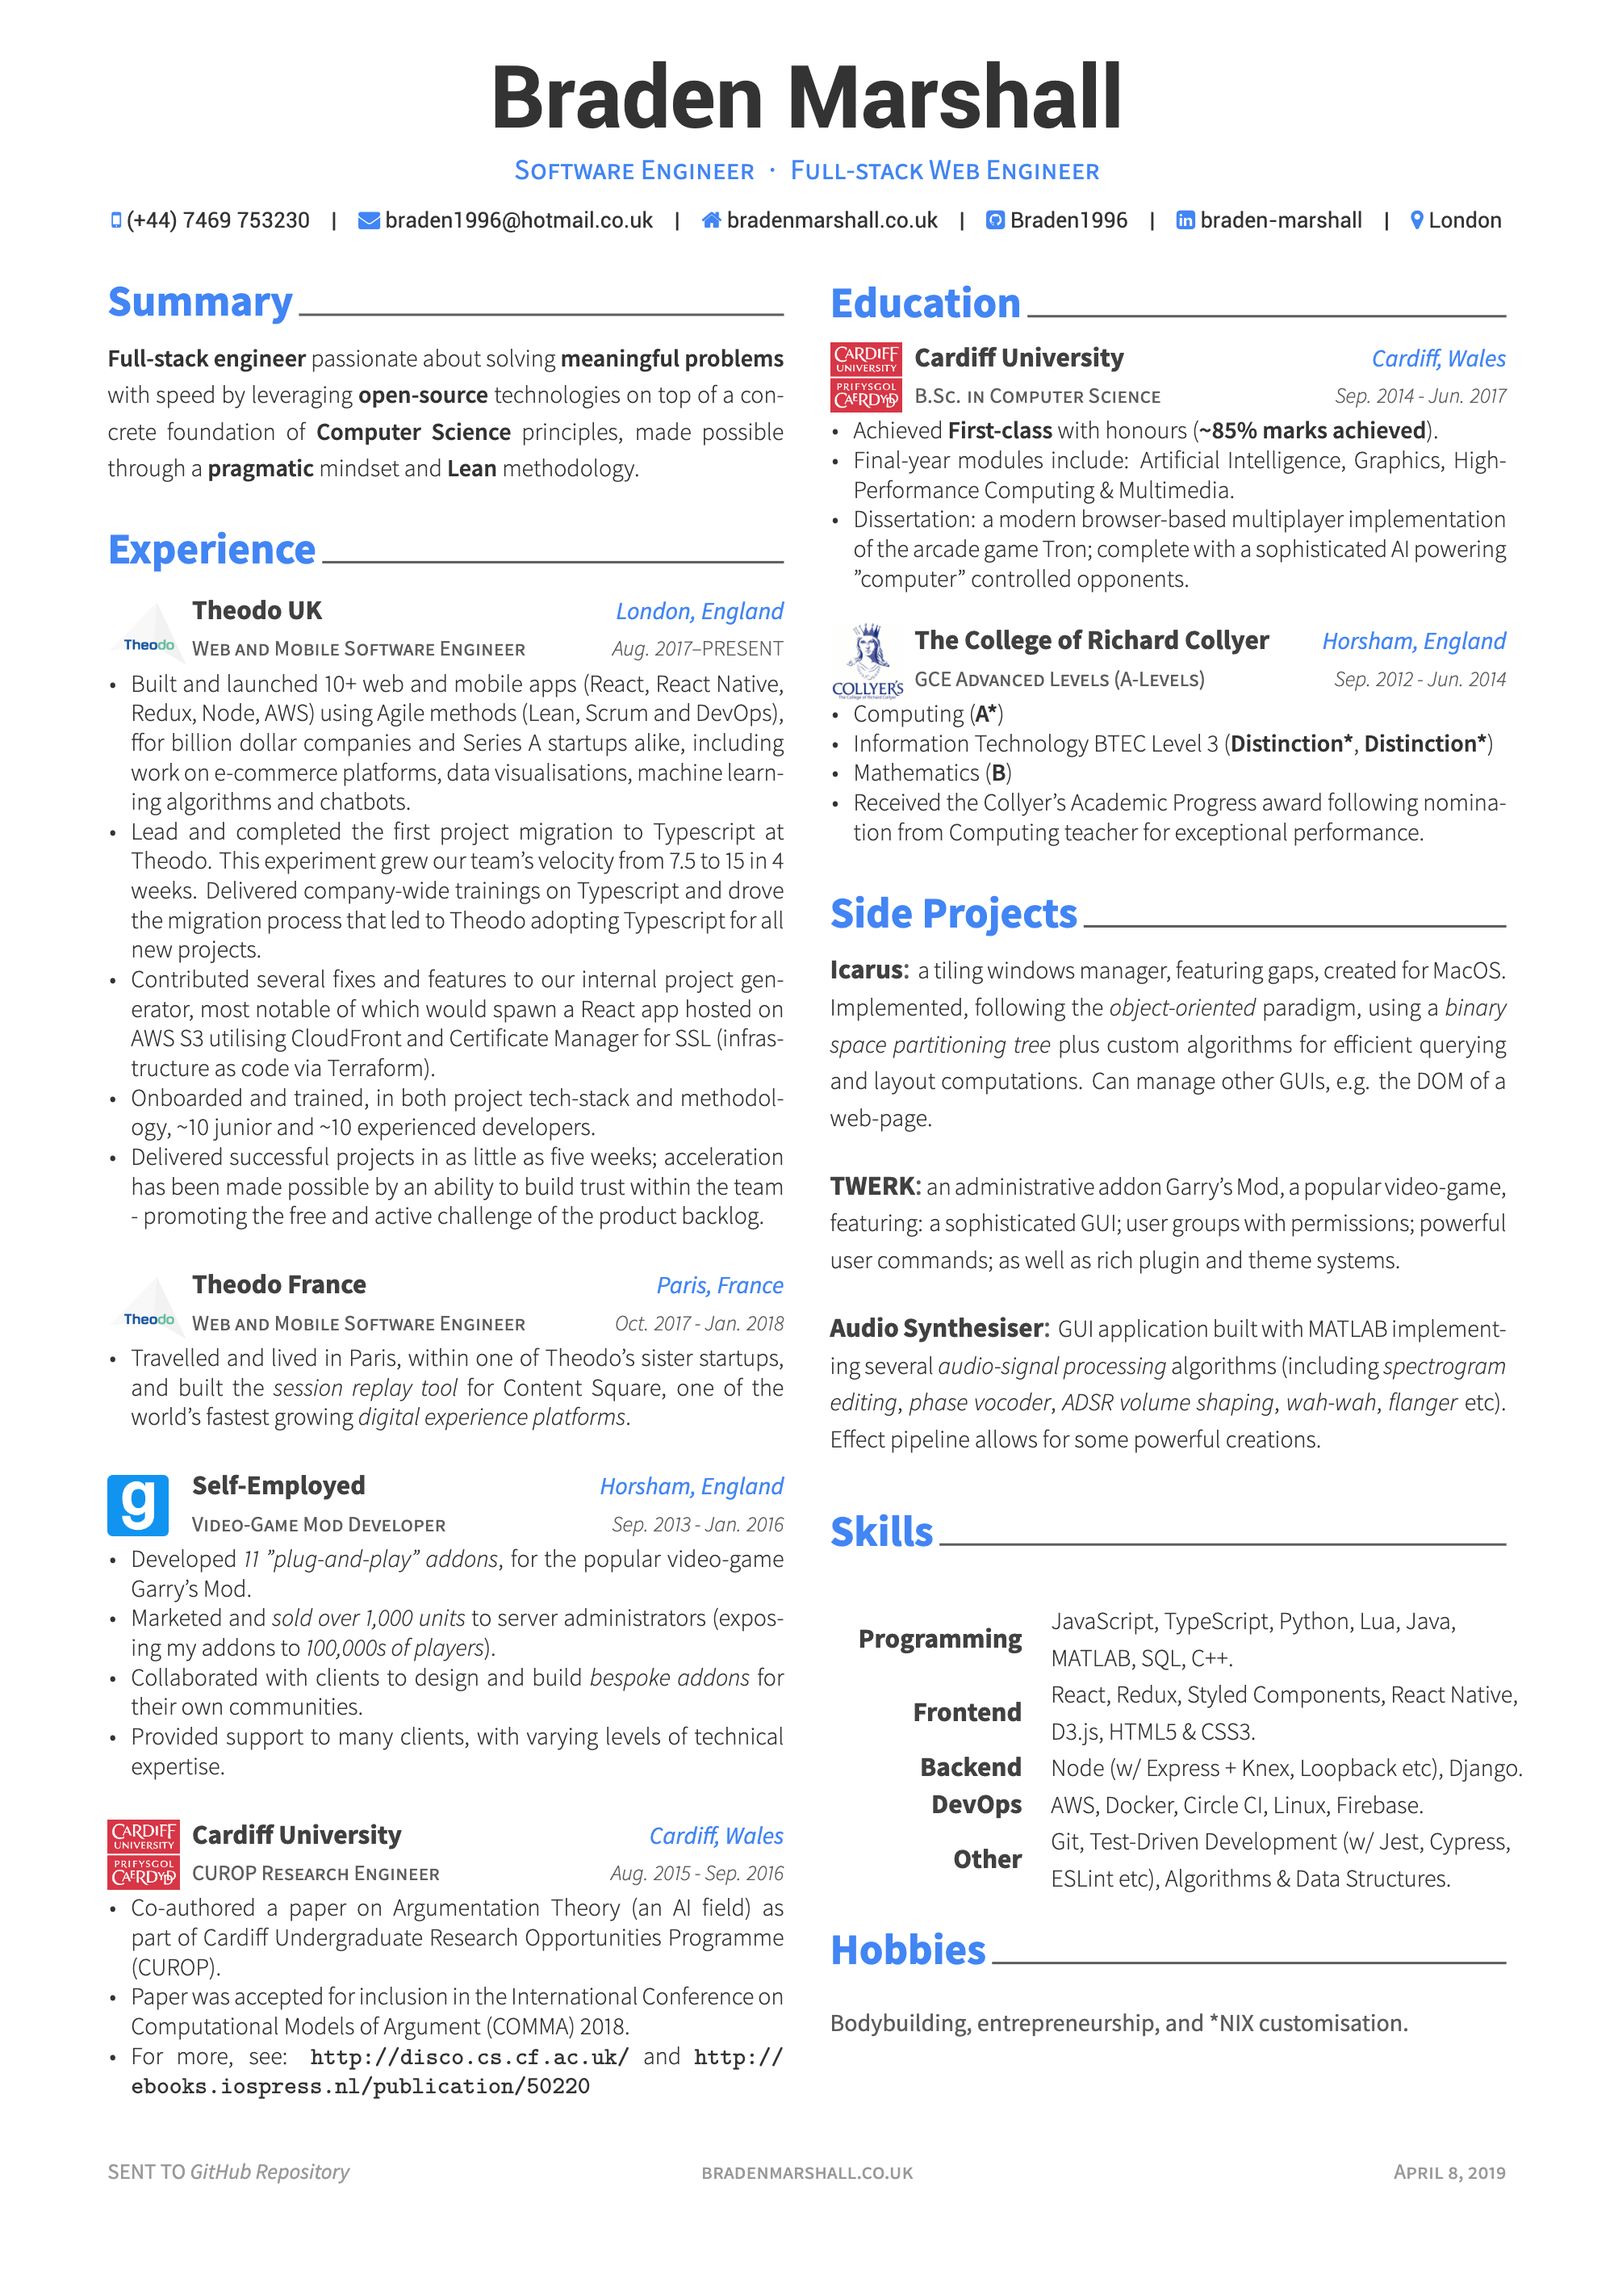
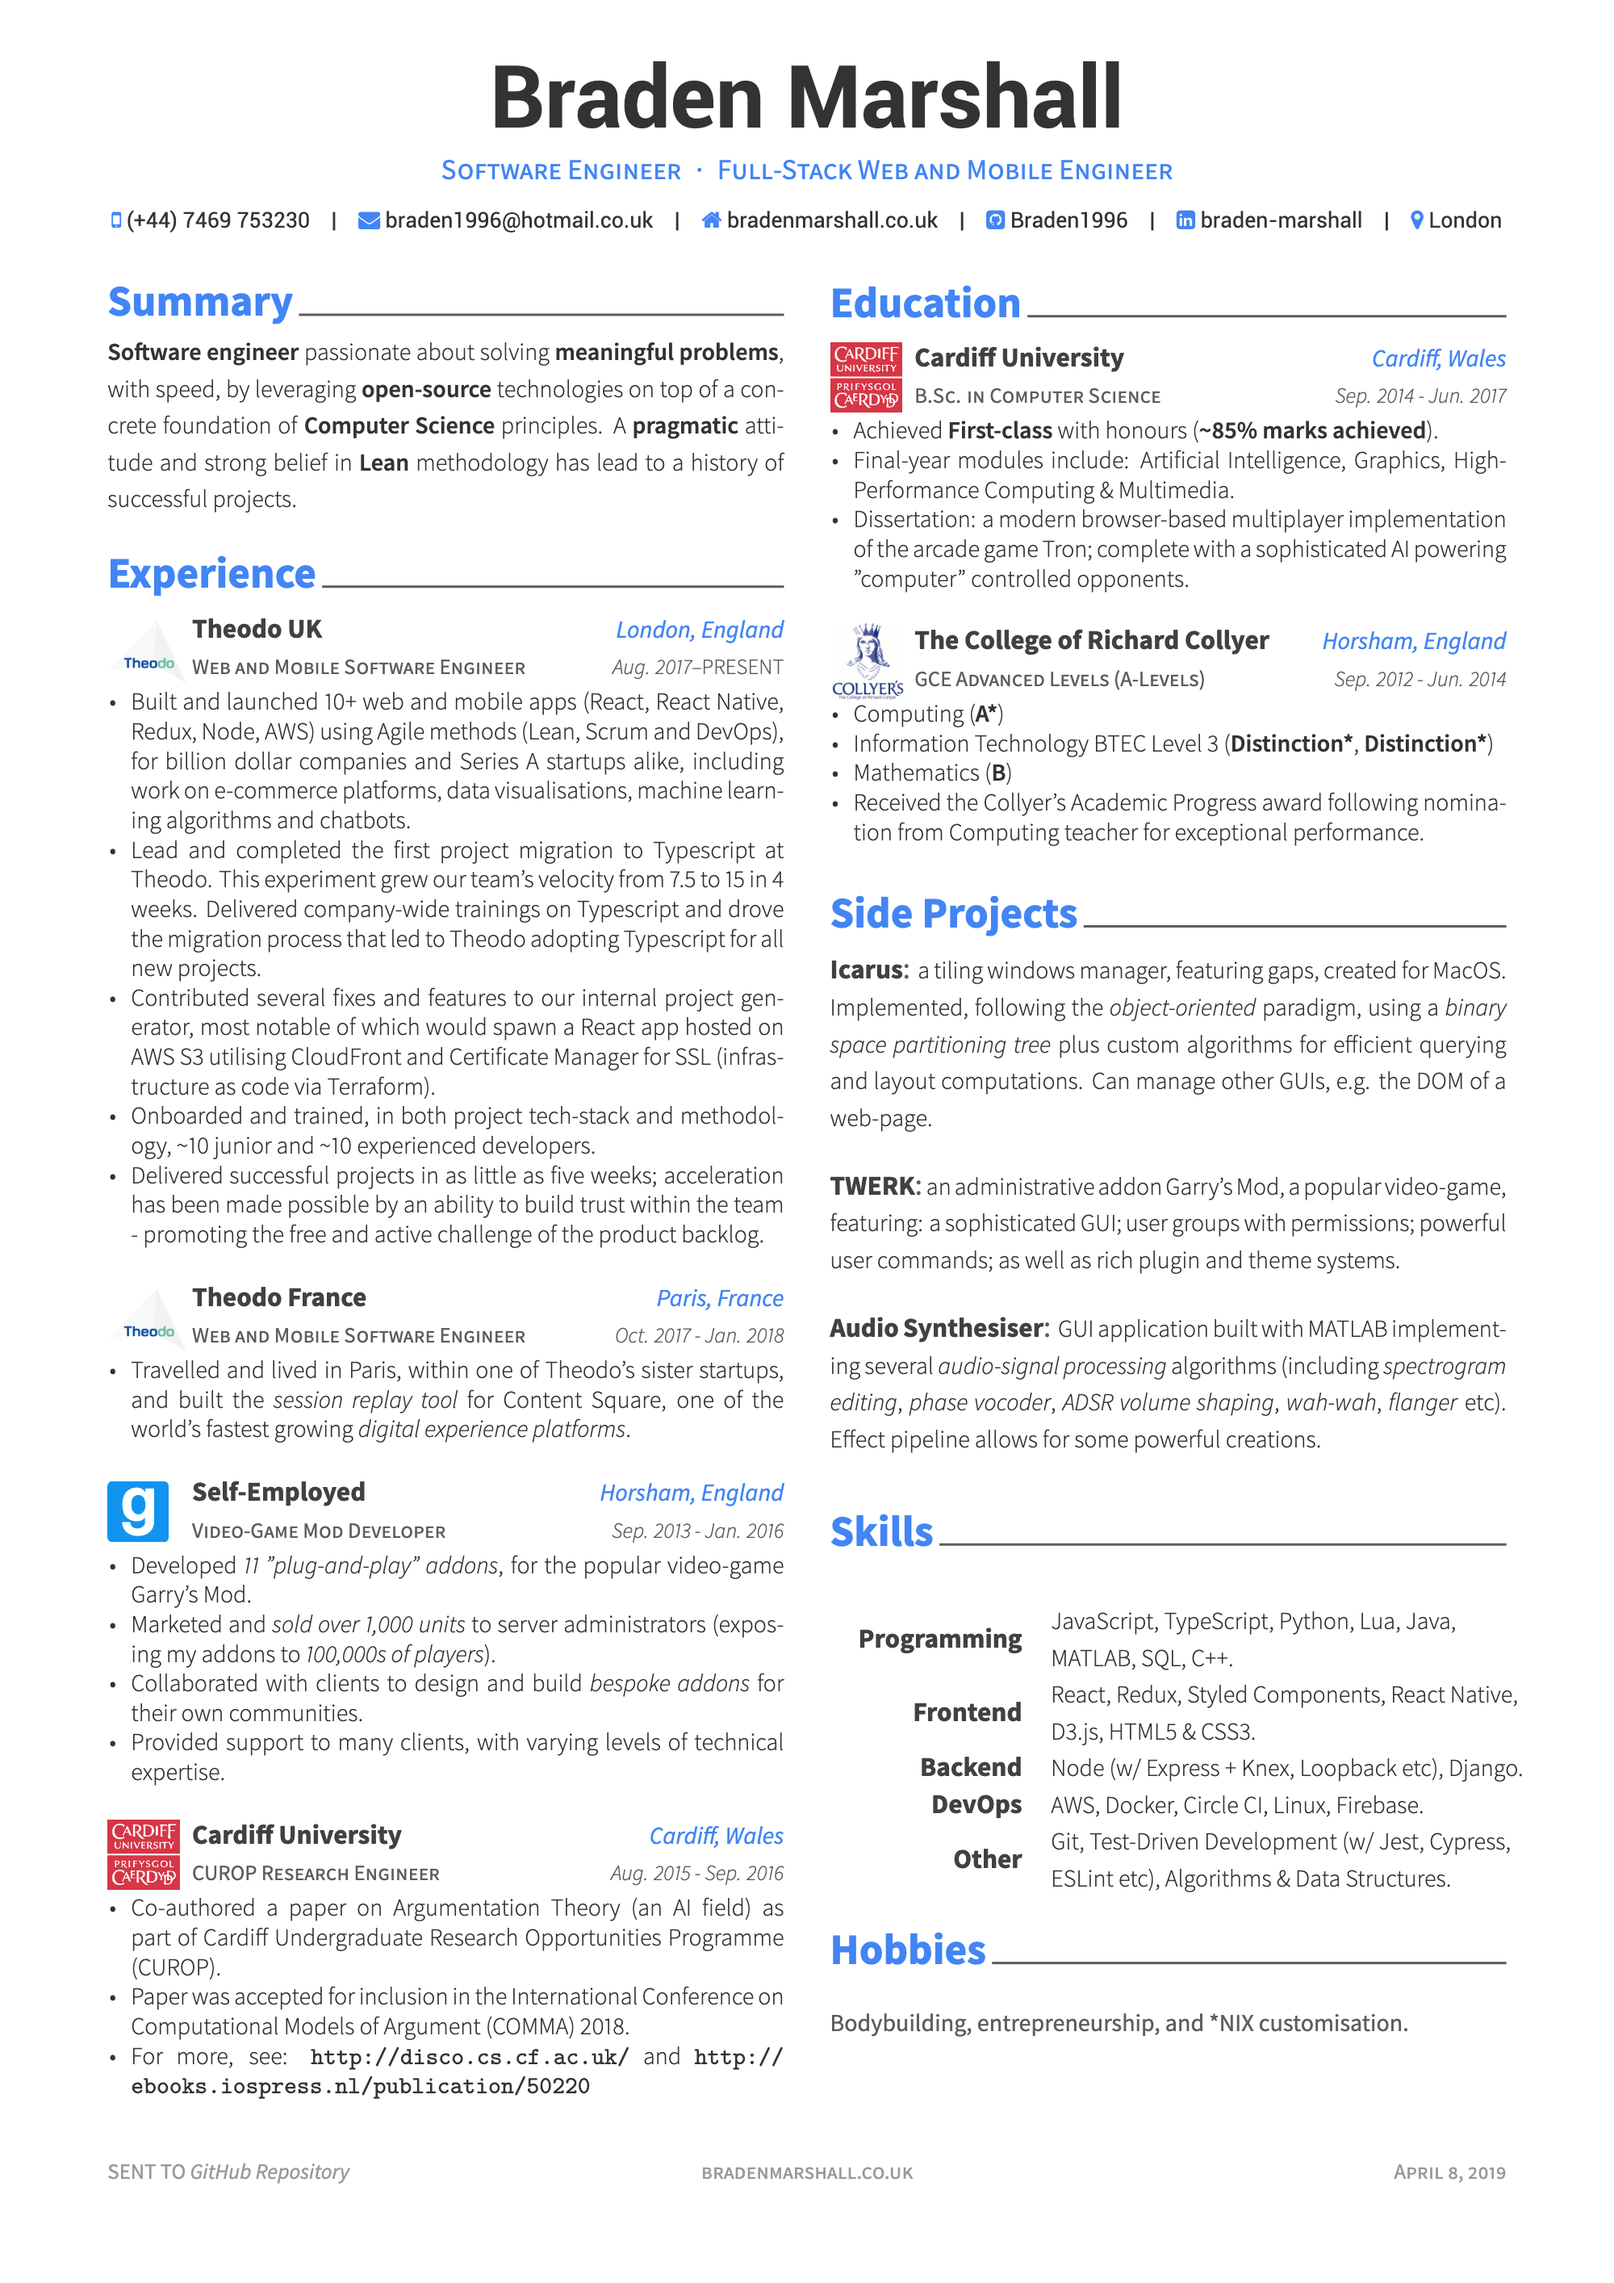
Improve summary to not be a single giant sentence.

diff --git a/resume/1_experience.tex b/resume/1_experience.tex
@@ -9,7 +9,7 @@
     {Aug. 2017--\textsc{PRESENT}}
     {
       \begin{cvitems}
-        \item Built and launched 10+ web and mobile apps (React, React Native, Redux, Node, AWS) using Agile methods (Lean, Scrum and DevOps), ffor billion dollar companies and Series A startups alike, including work on e-commerce platforms, data visualisations, machine learning algorithms and chatbots.
+        \item Built and launched 10+ web and mobile apps (React, React Native, Redux, Node, AWS) using Agile methods (Lean, Scrum and DevOps), for billion dollar companies and Series A startups alike, including work on e-commerce platforms, data visualisations, machine learning algorithms and chatbots.
         \item Lead and completed the first project migration to Typescript at Theodo. This experiment grew our team's velocity from 7.5 to 15 in 4 weeks. Delivered company-wide trainings on Typescript and drove the migration process that led to Theodo adopting Typescript for all new projects.
         \item Contributed several fixes and features to our internal project generator, most notable of which would spawn a React app hosted on \href{https://aws.amazon.com/s3/}{AWS S3} utilising \href{https://aws.amazon.com/cloudfront/}{CloudFront} and \href{https://aws.amazon.com/certificate-manager/}{Certificate Manager} for SSL (infrastructure as code via \href{https://www.terraform.io/}{Terraform}).
         \item Onboarded and trained, in both project tech-stack and methodology, \textasciitilde{}10 junior and \textasciitilde{}10 experienced developers.

diff --git a/resume/summary.tex b/resume/summary.tex
@@ -1,5 +1,5 @@
 \cvsection{Summary}
 
 \begin{cvparagraph}
-  \textbf{Full-stack engineer} passionate about solving \textbf{meaningful problems} with speed by leveraging \textbf{open-source} technologies on top of a concrete foundation of \textbf{Computer Science} principles, made possible through a \textbf{pragmatic} mindset and \textbf{Lean} methodology.
+  \textbf{Software engineer} passionate about solving \textbf{meaningful problems}, with speed, by leveraging \textbf{open-source} technologies on top of a concrete foundation of \textbf{Computer Science} principles. A \textbf{pragmatic} attitude and strong belief in \textbf{Lean} methodology has lead to a history of successful projects.
 \end{cvparagraph}

diff --git a/braden.tex b/braden.tex
@@ -44,7 +44,7 @@
 \renewcommand{\acvHeaderSocialSep}{\quad\textbar\quad}
 
 \name{Braden}{Marshall}
-\position{Software Engineer{\enskip\cdotp\enskip}Full-stack Web Engineer}
+\position{Software Engineer{\enskip\cdotp\enskip}Full-Stack Web and Mobile Engineer}
 %\address{Computer Vision Center, Edificio O, Campus UAB 08193 Barcelona SPAIN}
 
 \mobile{(+44) 7469 753230} 
